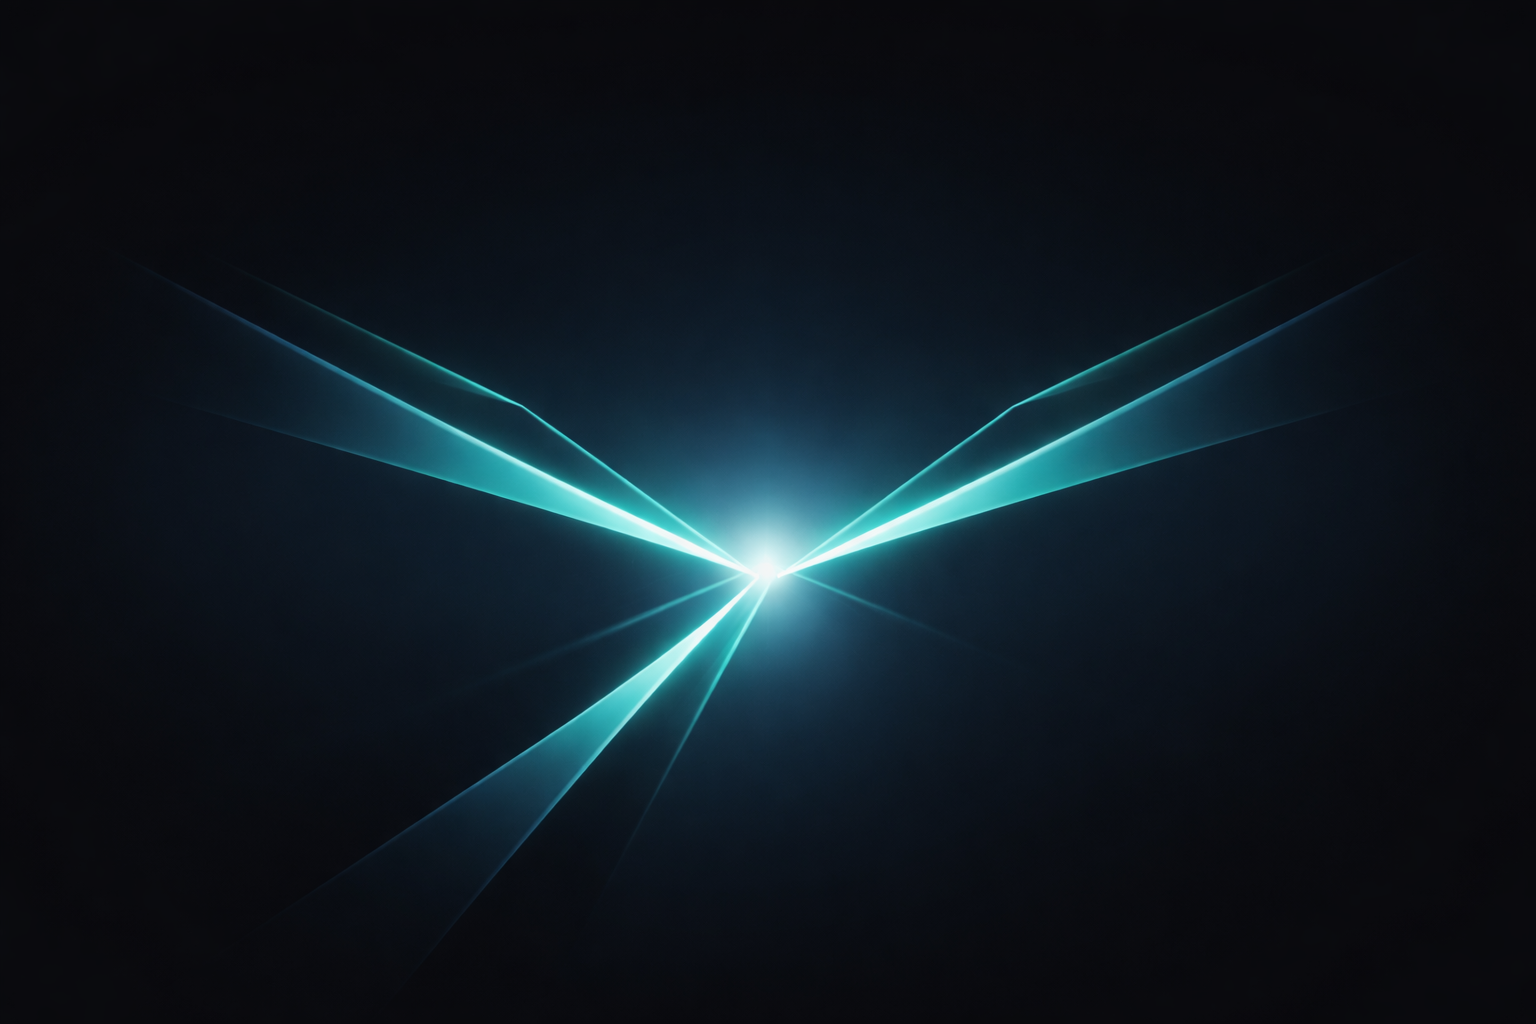
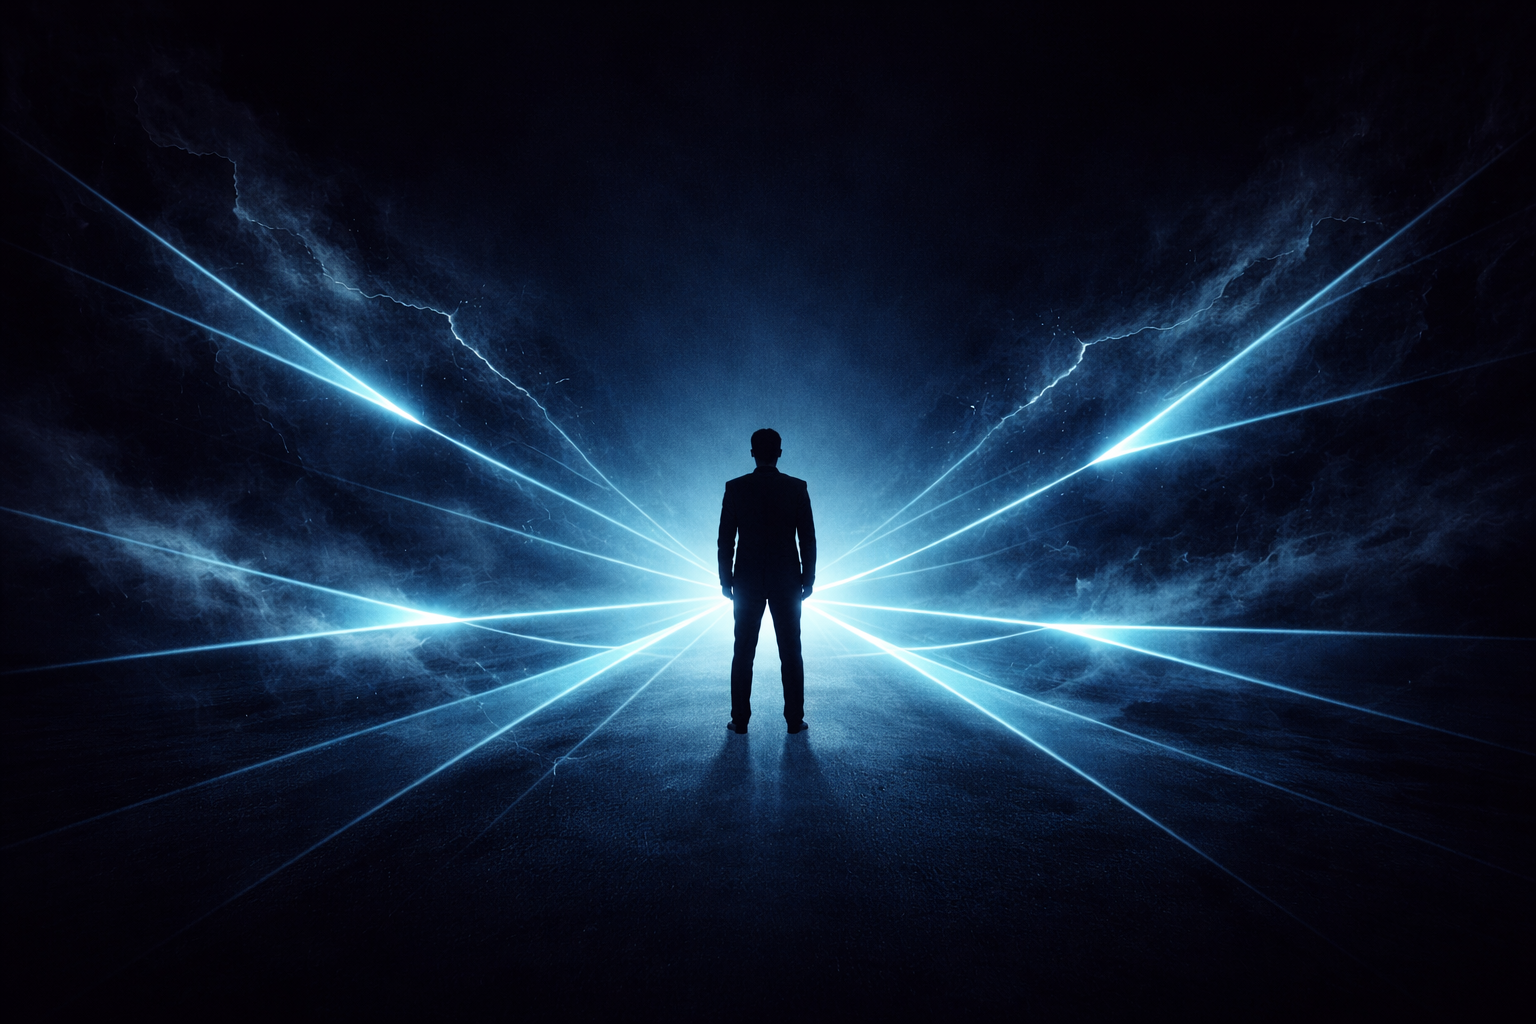
Update page

diff --git a/index.html b/index.html
@@ -56,18 +56,38 @@
     </section>
 
     <section class="section container" id="pains">
-      <div class="section-title">Руководители часто сталкиваются с проблемами:</div>
-      <ul class="bullet-list">
-        <li>Разные стейкхолдеры ожидают конфликтующих решений</li>
-        <li>Новые задачи не решаются привычными инструментами</li>
-        <li>Высокая цена ошибки</li>
-        <li>Необходимость быстро принимать эффективные решения</li>
-      </ul>
+      <div class="grid-2">
+        <div class="card-visual">
+          <img
+            class="section-image"
+            src="assets/section-problems1.png"
+            alt="Визуализация проблем руководителя в новой роли"
+            loading="lazy"
+          />
+        </div>
+        <div class="text-block">
+          <div class="section-title section-title--local">Руководители часто сталкиваются с проблемами:</div>
+          <ul class="bullet-list">
+            <li>Разные участники требуют взаимоисключающих решений</li>
+            <li>Новые задачи не решаются привычными инструментами</li>
+            <li>Высокая цена ошибки</li>
+            <li>Необходимость быстро принимать эффективные решения</li>
+          </ul>
+        </div>
+      </div>
     </section>
 
     <section class="section container" id="problem">
-      <div class="section-title">В период трансформации управленческие противоречия неизбежны</div>
       <div class="grid-2">
+        <div class="text-block">
+          <div class="section-title section-title--local section-title--aligned">В период трансформации управленческие противоречия неизбежны</div>
+          <ul class="bullet-list">
+            <li>Улучшая одно, вы неизбежно ухудшаете другое</li>
+            <li>Старый управленческий опыт перестаёт работать в новом контексте</li>
+            <li>Команда ждёт ясности, а решения приходится принимать интуитивно</li>
+            <li>Нет общего языка, чтобы договориться о сути проблемы</li>
+          </ul>
+        </div>
         <div class="card-visual">
           <img
             class="section-image"
@@ -75,14 +95,6 @@
             alt="Визуализация управленческих противоречий в период трансформации"
             loading="lazy"
           />
-        </div>
-        <div class="text-block">
-          <ul class="bullet-list">
-            <li>Улучшая одно, вы неизбежно ухудшаете другое</li>
-            <li>Старый управленческий опыт перестаёт работать в новом контексте</li>
-            <li>Команда ждёт ясности, а решения приходится принимать интуитивно</li>
-            <li>Нет общего языка, чтобы договориться о сути проблемы</li>
-          </ul>
         </div>
       </div>
     </section>
@@ -98,13 +110,17 @@
             <li>Выстраивать единый язык мышления со стейкхолдерами и командой</li>
           </ul>
         </div>
-        <div class="card-visual gradient-card">
-          <img
-            class="section-image"
-            src="assets/section-method.png"
-            alt="Визуализация системного подхода к управленческим решениям"
-            loading="lazy"
-          />
+        <div class="testimonial-wrap">
+          <blockquote class="testimonial-card">
+            <p>
+              У нас был проект, который не двигался из-за конфликта интересов акционера и производства.
+Я применила инструмент по противоречиям из курса и нашла простое и неожиданное решение, благодаря которому проект быстро запустился.
+            </p>
+          </blockquote>
+          <div class="testimonial-author">
+            <div class="testimonial-name">Анна, исполнительный директор IT-компании</div>
+            <div class="testimonial-role">Отзыв участника программы</div>
+          </div>
         </div>
       </div>
     </section>

diff --git a/styles.css b/styles.css
@@ -44,6 +44,15 @@ h1 {
   margin-bottom: 28px;
 }
 
+.section-title--local {
+  font-size: clamp(22px, 2.3vw, 30px);
+  margin-bottom: 18px;
+}
+
+.section-title--aligned {
+  margin-top: 10px;
+}
+
 .container {
   width: min(1200px, 92vw);
   margin: 0 auto;
@@ -304,6 +313,69 @@ h1 {
   background: linear-gradient(135deg, rgba(64, 224, 208, 0.2), rgba(74, 144, 226, 0.15));
 }
 
+.testimonial-wrap {
+  align-self: stretch;
+  display: grid;
+  align-content: start;
+  gap: 12px;
+}
+
+.testimonial-card {
+  margin: 0;
+  position: relative;
+  border-radius: 20px;
+  padding: 26px 24px 24px 28px;
+  background: linear-gradient(145deg, rgba(112, 222, 244, 0.28), rgba(72, 148, 214, 0.3));
+  border: 1px solid rgba(143, 219, 255, 0.26);
+  color: #dff5ff;
+  font-size: 20px;
+  line-height: 1.5;
+}
+
+.testimonial-card::after {
+  content: "";
+  position: absolute;
+  left: 30px;
+  bottom: -12px;
+  width: 22px;
+  height: 22px;
+  transform: rotate(45deg);
+  background: rgba(98, 196, 238, 0.85);
+  border-left: 1px solid rgba(143, 219, 255, 0.26);
+  border-bottom: 1px solid rgba(143, 219, 255, 0.26);
+}
+
+.testimonial-card::before {
+  content: "“";
+  position: absolute;
+  top: 10px;
+  left: 12px;
+  font-family: "Unbounded", sans-serif;
+  font-size: 42px;
+  line-height: 1;
+  color: rgba(225, 246, 255, 0.55);
+  pointer-events: none;
+}
+
+.testimonial-card p {
+  margin: 0;
+  font-style: italic;
+}
+
+.testimonial-author {
+  padding-left: 10px;
+}
+
+.testimonial-name {
+  font-weight: 700;
+  color: #eef7ff;
+}
+
+.testimonial-role {
+  color: rgba(220, 234, 250, 0.7);
+  font-size: 14px;
+}
+
 .facts-grid {
   display: grid;
   grid-template-columns: repeat(4, minmax(0, 1fr));
@@ -389,7 +461,7 @@ h1 {
 
 .instructor-card {
   display: grid;
-  grid-template-columns: 220px 1fr;
+  grid-template-columns: minmax(320px, 36%) 1fr;
   gap: 24px;
   padding: 24px;
   border-radius: 24px;
@@ -398,15 +470,14 @@ h1 {
 }
 
 .instructor-photo {
-  height: 220px;
+  width: 100%;
+  height: 360px;
+  object-fit: contain;
+  object-position: center center;
   border-radius: 20px;
-  display: grid;
-  place-items: center;
-  background: linear-gradient(135deg, rgba(64, 224, 208, 0.2), rgba(74, 144, 226, 0.18));
-  color: var(--muted);
-  font-size: 14px;
-  text-transform: uppercase;
-  letter-spacing: 0.08em;
+  display: block;
+  background: rgba(12, 16, 24, 0.85);
+  box-shadow: 0 18px 45px rgba(0, 0, 0, 0.35);
 }
 
 .instructor-name {
@@ -770,6 +841,10 @@ h1 {
     grid-template-columns: 1fr;
   }
 
+  .instructor-photo {
+    height: min(64vw, 420px);
+  }
+
   .tariff-grid {
     grid-template-columns: 1fr;
   }
@@ -801,5 +876,10 @@ h1 {
 
   .fact-label {
     font-size: 18px;
+  }
+
+  .testimonial-card {
+    font-size: 16px;
+    padding: 18px;
   }
 }
